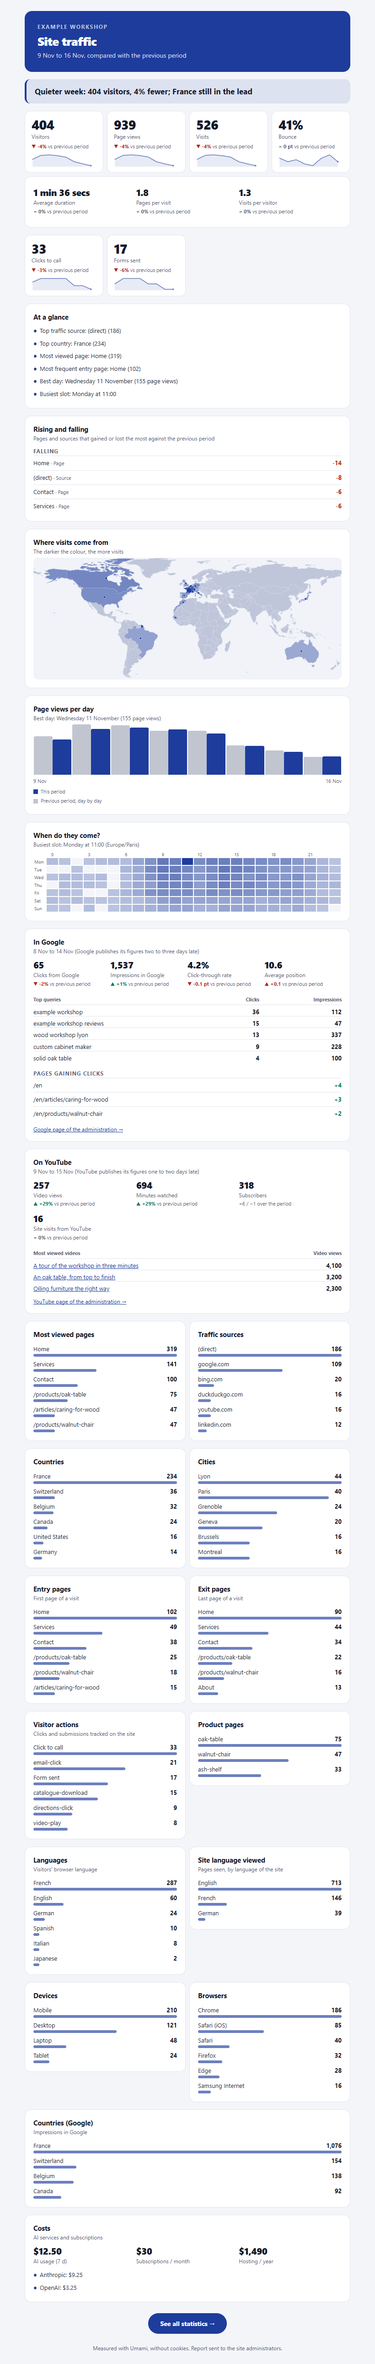
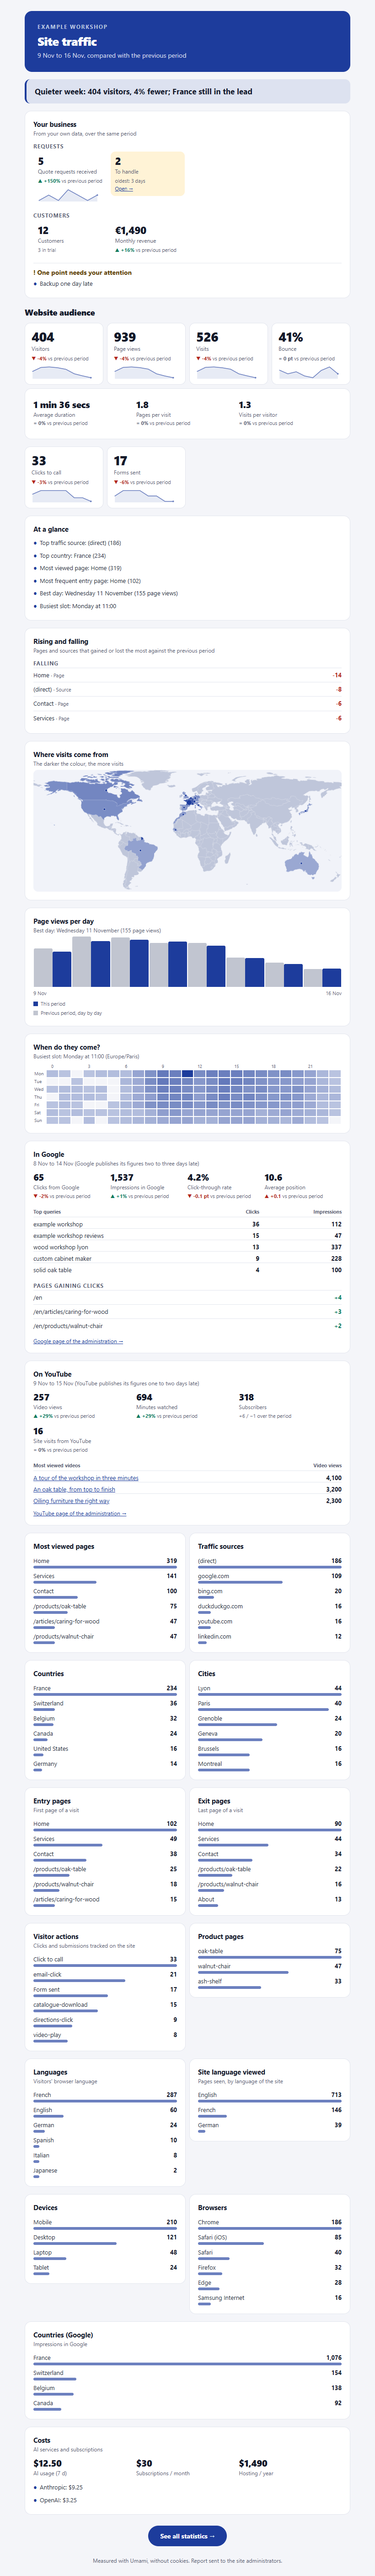
Release 0.2.11: version, changelog, README and screenshots (business figures at the top of the report)

diff --git a/README.md b/README.md
@@ -76,6 +76,7 @@ A site tile (`extras.tiles`) may carry a `link` (`{ url, label }`: "Open the req
 What the report contains, in this order:
 
 - a **sentence that sums up the period**, also the preheader of the message ("Quieter week: 404 visitors, 4% fewer; France still in the lead"), and a **subject with the figures** ("Example Workshop — 404 visitors this week (−4%)");
+- the **business figures of the site** when it gives them (`report.business`): requests received and to handle, customers, trials, subscriptions, revenue, documents, messages, costs… in one card, four per row (two by two on a phone), by group, with their change, a small chart, an amber background for what is to handle and a link to the screen where to act; then the state of the services and the alerts. The traffic follows under its own title ("Website audience"). Shown even when Umami is not connected;
 - the **key figures** (visitors, page views, visits, bounce rate) with their change and a **small chart** each (the trend of the period day by day: visitors, page views, visits, bounce rate, and each goal; a period counted by hour, or longer than 31 days, has no chart for visits and bounce rate), then the average duration, pages per visit and visits per visitor, each with its change; the goals;
 - the site data, an "At a glance" card (top source, country, page and entry page, best day, busiest slot; `report.glance: false` to remove it), **rising and falling** pages and sources, the world map, page views per day next to the previous period day by day, the heatmap;
 - **Google** (clicks, impressions, click-through rate, average position, each with its change; top queries; pages gaining clicks) and **YouTube** (views, minutes watched, subscribers, visits and requests from YouTube; most viewed videos), only when the source is connected: no empty block;
@@ -88,6 +89,23 @@ report: {
   // …
   // Site-specific cards, after the rankings, in the site's language (costs, requests, news…). A failure only removes them.
   blocks: async (overview) => [{ title: 'Cost of the site', hint: 'Monthly estimate', figures: [{ value: '$14.30', label: 'per month', sub: '$171.60 per year' }], lines: ['No usage-based service'] }],
+  // Business figures at the top, read at every report, in the site's language (a failure only removes them). Leave out a figure
+  // the site cannot read: never a zero standing for "unknown". `currency`: the number is written as an amount in the report's language.
+  business: async (overview) => ({
+    // title: 'Your business' and hint: 'From your own data, over the same period' by default (report.businessTitle / businessHint)
+    kpis: [
+      { id: 'requests', label: 'Requests received', value: 5, previous: 2, group: 'Requests', series: [0, 1, 0, 2, 1, 0, 1] },
+      { id: 'to-handle', label: 'To handle', value: 2, highlight: true, group: 'Requests', link: { url: 'https://www.example.org/admin/requests', label: 'Open →' } },
+      { id: 'customers', label: 'Customers', value: 12, sub: '3 in trial', group: 'Customers' },
+      { id: 'revenue', label: 'Monthly revenue', value: 1490, previous: 1290, currency: 'EUR', group: 'Customers' },
+      { id: 'costs', label: 'Costs this month', value: 43.5, currency: 'EUR', lowerIsBetter: true },
+    ],
+    status: { tone: 'warn', title: 'One point needs your attention', lines: ['Backup one day late'] }, // 'ok' | 'warn' | 'down'
+    link: { url: 'https://www.example.org/admin', label: 'Open the administration →' },
+  }),
+  // Google and YouTube figures read by the site itself (another kit, its own YouTube reading…): a field given replaces the
+  // connector of this kit, `null` removes the block. Same as `Report.Sources` in .NET.
+  sources: async (range) => ({ youtube: await myYoutubeOverview(range.days), videos: await myTopVideos(range) }),
   // Texts edited in the site's administration, read again at every report (over `texts`; the pages keep the texts of the creation).
   texts: async () => ({ report: { subjectWeekly: await myDb.read('report.subject'), intro: await myDb.read('report.intro') } }),
   // Links at the end of the Google and YouTube blocks, to the pages of the administration.
@@ -130,7 +148,7 @@ app.MapStatsKit("/api/admin/audience").RequireAuthorization("admin");
 ```
 
 - `ReportMessage` has `Subject`, `Html`, `Text` and `Attachments` (`Cid`, `FileName`, `ContentType`, `Content`): send it with Microsoft Graph, SMTP… as the site does. The library sends nothing.
-- The same settings as in Node: `Pages` (languages, labels, groups), `EventLabels`, `Goals`, `Extras` (site data, shown even without Umami), `Report.Blocks` (site-specific cards), `Report.Glance`, `Texts["report.footer"] = "…"` (overrides by path), `BaseTexts` (a language the library does not ship), `CacheTtl`.
+- The same settings as in Node: `Pages` (languages, labels, groups), `EventLabels`, `Goals`, `Extras` (site data, shown even without Umami), `Report.Blocks` (site-specific cards), `Report.Business` (business figures at the top: `ReportBusiness`, `BusinessKpi`, `BusinessStatus`), `Report.Glance`, `Texts["report.footer"] = "…"` (overrides by path), `BaseTexts` (a language the library does not ship), `CacheTtl`.
 - Without ASP.NET routing: `kit.HandleAsync(new KitRequest("GET", "/overview", query))` returns `{ Status, Headers, Body }`; `kit.OverviewAsync()`, `kit.LiveAsync()`, `kit.ReportAsync()`, `kit.SendReportAsync()` give the data. `kit.Umami.GetAsync("stats", …)` reads Umami directly with the same account (for a site's own alerts).
 - Weekly report: register a `WeeklyReportService` (hosted service) with a `WeeklySchedule { Weekday = 1, Hour = 8, TimeZone = "Europe/Paris" }` (a missed report is caught up during `CatchUpDays` days, 3 by default, as in Node), the reading and writing of the last week sent (database: once a week only, even with several instances) and the sending (`(await kit.SendReportAsync(RangeQuery.ForDays(7), weekly: true)).Ok`).
 - Search Console and YouTube are not connected by the .NET server yet: `/search`, `/search/indexation` and `/youtube` answer "not configured" (the pages then show what to do). Their blocks of the report are there: give their figures with `Report.Sources = (range, ct) => …` (`ReportSources(SearchOverview, YoutubeOverview, Videos)`, read for instance from a Node stats-kit server with `ContractJson.Deserialize<SearchOverview>(json)`); without them, no block. Links to the Google and YouTube pages: `Report.SearchUrl`, `Report.YoutubeUrl`; texts read again at every report: `Report.Texts = ct => …` (overrides by path); map and dark-mode colours: `ReportTheme.Map`, `ReportTheme.Dark`; amounts: `Format.Money(kit.Texts, 12.5, "USD")`.

diff --git a/CHANGELOG.md b/CHANGELOG.md
@@ -1,5 +1,18 @@
 # Changelog
 
+## 0.2.11
+
+The site's own business figures at the top of the report, the same in Node and .NET. Backward compatible: a site that gives none gets the same report as before.
+
+### Added
+
+- **Business figures** (`report.business`, `ReportInput.business`): a section at the top of the report, under the sentence of the period, with what the site itself counts — requests received and to handle, customers, trials, subscriptions, revenue, documents, messages, costs… (`BusinessKpi`: number or text, previous value and its change, `currency` for an amount written in the language of the report, `series` for a small chart, `lowerIsBetter`, `highlight` in amber for what is to handle, `group`, `link` to the screen where to act), then the state of the services (`BusinessStatus`: `ok`, `warn` or `down`, a title, the alerts in lines) and a link to the administration. In one card (a light message), four figures per row, two by two on a phone, dark mode, plain-text version. The traffic follows under its own title ("Website audience"). Shown even when Umami is not connected; a failure of the function only removes the section. New texts `report.businessTitle`, `report.businessHint` and `report.trafficTitle` in the eleven languages.
+- **Google and YouTube figures given by the site** in Node too (`report.sources`, as `Report.Sources` in .NET): for a site that reads them itself (another kit, its own YouTube reading); a field given replaces the connector of the kit, `null` removes the block.
+
+### .NET server
+
+- The same: `ReportOptions.Business`, `ReportBusiness`, `BusinessKpi`, `BusinessStatus`, `ReportLink`, `ReportBuilder.Build(…, business)`; the contract fixtures now carry business figures (statuses `ok`, `warn`, `down`, amounts in euros and dollars, groups, charts, links).
+
 ## 0.2.10
 
 Found by the review of the 0.2.9 report. Backward compatible.
